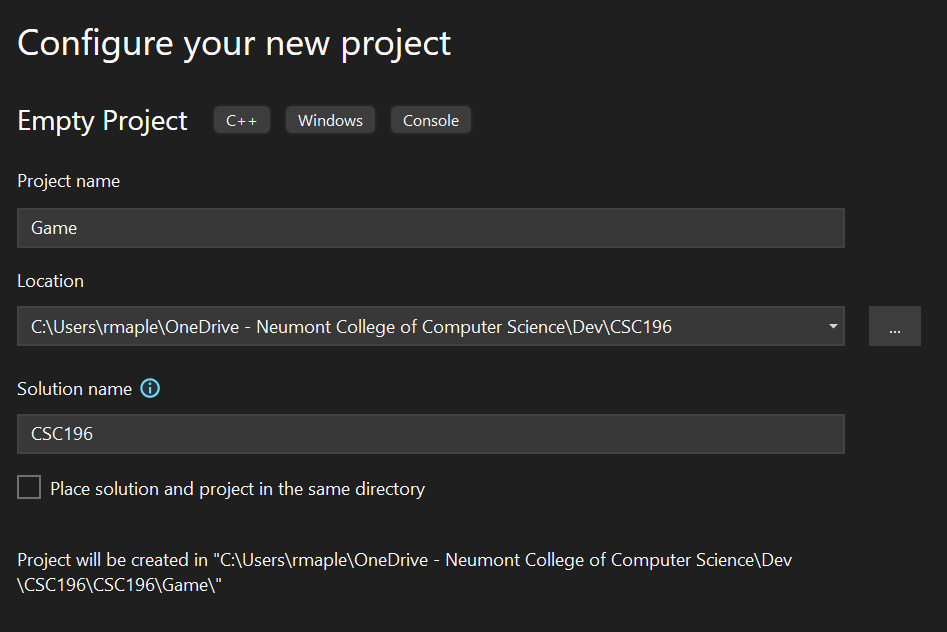
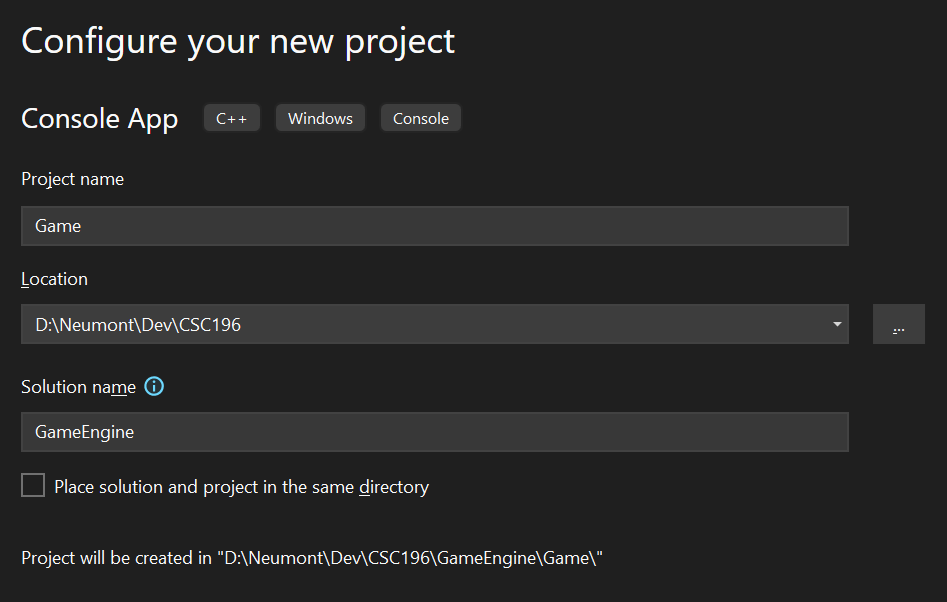
update to vsproject

diff --git a/_posts/GameDev-CPP/2025-06-25-gamedev-cpp-vsproject.md b/_posts/GameDev-CPP/2025-06-25-gamedev-cpp-vsproject.md
@@ -41,7 +41,7 @@ it is up to date.
   <img src="image5.png" width="93%" alt="image">
 </div>
 
-- Create an **Empty Project**.
+- Create a **Console App**.
 
   - To reduce project types listed, filter the projects by setting
     **Language** to **C++** and **Project type** to **Console**.
@@ -52,7 +52,7 @@ it is up to date.
 
 - Name your **Project** and **Solution**.
 
-  - In this example, the **Solution** name is "CSC196".
+  - In this example, the **Solution** name is "GameEngine".
 
   - In this example, the **Project** name is "Game".
 